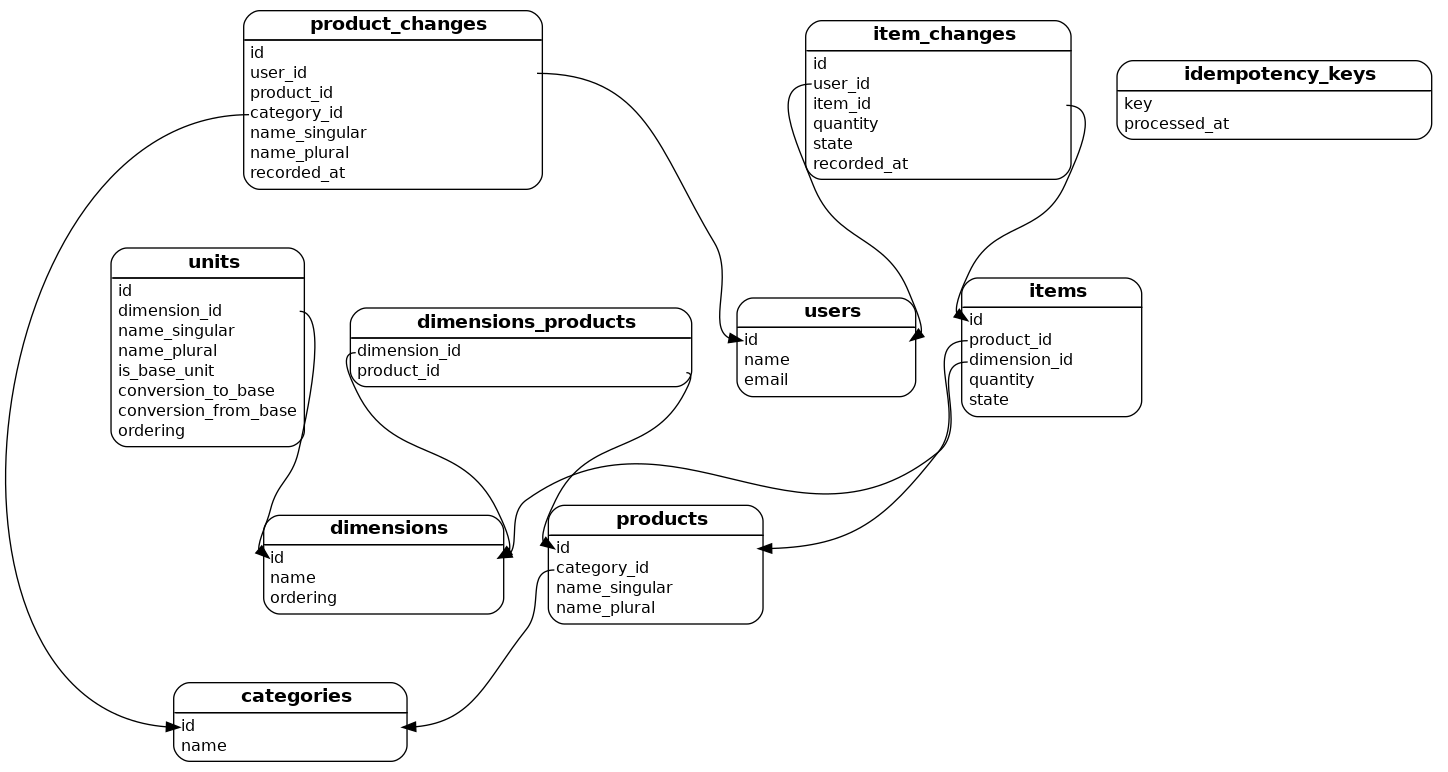
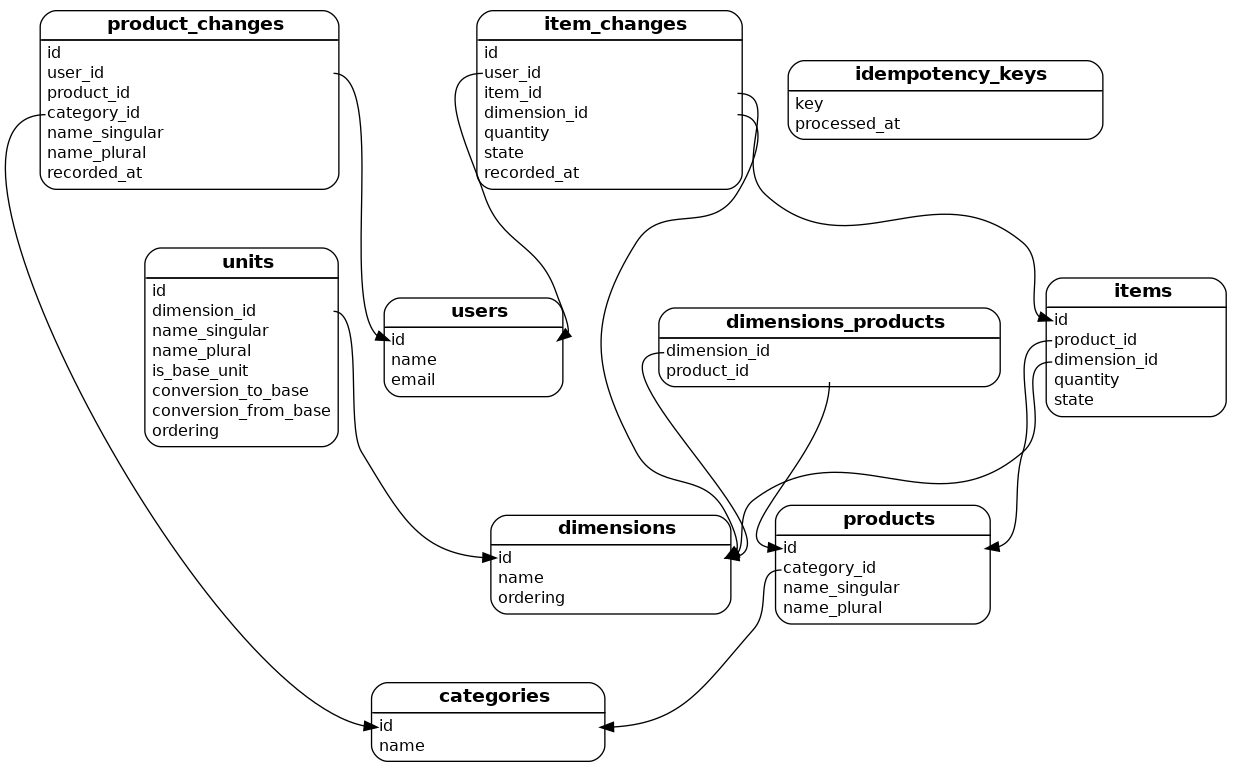
Add dimension to item changes

diff --git a/set_quantity.go b/set_quantity.go
@@ -184,7 +184,7 @@ func (env *Environment) SetQuantityRoute(w http.ResponseWriter, r *http.Request)
 						return
 					}
 
-					_, err = tx.Exec("INSERT INTO item_changes (item_id, user_id, quantity, state, recorded_at) VALUES (?, ?, ?, 'removed', datetime('now'))", itemId, user.Id, item.Quantity)
+					_, err = tx.Exec("INSERT INTO item_changes (item_id, user_id, dimension_id, quantity, state, recorded_at) VALUES (?, ?, ?, ?, 'removed', datetime('now'))", itemId, user.Id, item.Dimension.Id, item.Quantity)
 					if err != nil {
 						log.Println(err.Error())
 						http.Error(w, "Internal Server Error", http.StatusInternalServerError)
@@ -199,7 +199,7 @@ func (env *Environment) SetQuantityRoute(w http.ResponseWriter, r *http.Request)
 						return
 					}
 
-					_, err = tx.Exec("INSERT INTO item_changes (item_id, user_id, quantity, state, recorded_at) VALUES (?, ?, ?, 'added', datetime('now'))", itemIdForSelectedDimension, user.Id, baseQuantity+startQuantiy)
+					_, err = tx.Exec("INSERT INTO item_changes (item_id, user_id, dimension_id, quantity, state, recorded_at) VALUES (?, ?, ?, ?, 'added', datetime('now'))", itemIdForSelectedDimension, user.Id, itemForSelectedDimension.Dimension.Id, baseQuantity+startQuantiy)
 					if err != nil {
 						log.Println(err.Error())
 						http.Error(w, "Internal Server Error", http.StatusInternalServerError)
@@ -214,7 +214,7 @@ func (env *Environment) SetQuantityRoute(w http.ResponseWriter, r *http.Request)
 						return
 					}
 
-					_, err = tx.Exec("INSERT INTO item_changes (item_id, user_id, quantity, state, recorded_at) VALUES (?, ?, ?, 'added', datetime('now'))", itemId, user.Id, baseQuantity)
+					_, err = tx.Exec("INSERT INTO item_changes (item_id, user_id, dimension_id, quantity, state, recorded_at) VALUES (?, ?, ?, ?, 'added', datetime('now'))", itemId, user.Id, dimension.Id, baseQuantity)
 					if err != nil {
 						log.Println(err.Error())
 						http.Error(w, "Internal Server Error", http.StatusInternalServerError)

diff --git a/main.go b/main.go
@@ -720,7 +720,7 @@ func (env *Environment) AddItemRoute(w http.ResponseWriter, r *http.Request) {
 					}
 				}
 
-				_, err = tx.Exec("INSERT INTO item_changes (item_id, user_id, quantity, state, recorded_at) VALUES (?, ?, ?, 'added', datetime('now'))", itemId, user.Id, baseQuantity+startQuantiy)
+				_, err = tx.Exec("INSERT INTO item_changes (item_id, user_id, dimension_id, quantity, state, recorded_at) VALUES (?, ?, ?, ?, 'added', datetime('now'))", itemId, user.Id, dimension.Id, baseQuantity+startQuantiy)
 				if err != nil {
 					log.Println(err.Error())
 					http.Error(w, "Internal Server Error", http.StatusInternalServerError)
@@ -848,7 +848,7 @@ func (env *Environment) CheckItemRoute(w http.ResponseWriter, r *http.Request) {
 			return
 		}
 
-		_, err = tx.Exec("INSERT INTO item_changes (item_id, user_id, quantity, state, recorded_at) VALUES (?, ?, ?, 'gathered', datetime('now'))", item.Id, user.Id, item.Quantity)
+		_, err = tx.Exec("INSERT INTO item_changes (item_id, user_id, dimension_id, quantity, state, recorded_at) VALUES (?, ?, ?, ?, 'gathered', datetime('now'))", item.Id, user.Id, item.Dimension.Id, item.Quantity)
 		if err != nil {
 			log.Println(err.Error())
 			http.Error(w, "Internal Server Error", http.StatusInternalServerError)
@@ -921,7 +921,7 @@ func (env *Environment) RemoveItemRoute(w http.ResponseWriter, r *http.Request) 
 			return
 		}
 
-		_, err = tx.Exec("INSERT INTO item_changes (item_id, user_id, quantity, state, recorded_at) VALUES (?, ?, ?, 'removed', datetime('now'))", item.Id, user.Id, item.Quantity)
+		_, err = tx.Exec("INSERT INTO item_changes (item_id, user_id, dimension_id, quantity, state, recorded_at) VALUES (?, ?, ?, ?, 'removed', datetime('now'))", item.Id, user.Id, item.Dimension.Id, item.Quantity)
 		if err != nil {
 			log.Println(err.Error())
 			http.Error(w, "Internal Server Error", http.StatusInternalServerError)

diff --git a/undo.go b/undo.go
@@ -58,7 +58,7 @@ func (env *Environment) UndoRoute(w http.ResponseWriter, r *http.Request) {
 			return
 		}
 
-		_, err = tx.Exec("INSERT INTO item_changes (item_id, user_id, quantity, state, recorded_at) VALUES (?, ?, ?, ?, datetime('now'))", item.Id, user.Id, item.Quantity, newState)
+		_, err = tx.Exec("INSERT INTO item_changes (item_id, user_id, dimension_id, quantity, state, recorded_at) VALUES (?, ?, ?, ?, ?, datetime('now'))", item.Id, user.Id, item.Dimension.Id, item.Quantity, newState)
 		if err != nil {
 			log.Println(err.Error())
 			http.Error(w, "Internal Server Error", http.StatusInternalServerError)
